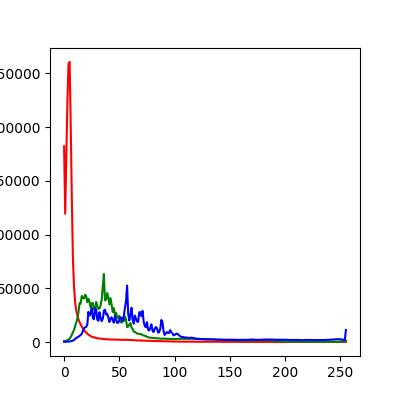
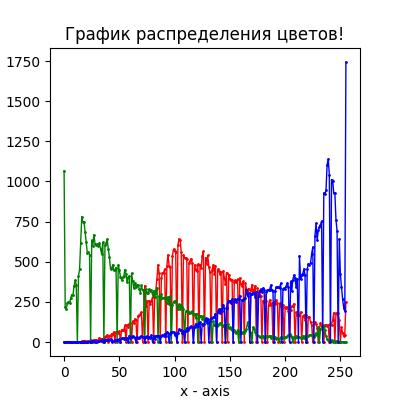
final

diff --git a/templates/result.html b/templates/result.html
@@ -7,11 +7,11 @@
 <div class="container">
     <div class="labels">
         <span>Image 1 </span>
-        <span>График распределения цветов исходной картинки</span>
     </div>
     <div class="image-container">
         <img src={{ image1 }}/>
         <img src="./static/images/color_map.jpg"/>
+
     </div>
 
     <div class="labels">
@@ -20,15 +20,8 @@
     </div>
     <div class="image-container">
         <img src="./static/images/new_image.jpg" />
-        <img src="./static/images/color_map_2.jpg"/>
+
     </div>
 
-
-    <div class="labels">
-        <span>Графики среднего значения цвета по вертикали и горизонтали</span>
-    </div>
-    <div class="image-container">
-        <img src="./static/images/hist1.png"/>
-    </div>
 </div>
 {% endblock %}

diff --git a/app.py b/app.py
@@ -1,6 +1,7 @@
 # Веб-приложение должно менять цветовые карты изображения r, g, b в соответствии
 # с заданным пользователем порядком, выдавать графики распределения цветов
 # исходной картинки и графики среднего значения цвета по вертикали и горизонтали.
+import cv2
 from flask import Flask, render_template, request, redirect, url_for
 from flask_wtf import FlaskForm
 from werkzeug.utils import secure_filename
@@ -25,16 +26,18 @@ class ColorForm(FlaskForm):
                                               ("Dark2", "Dark2")],
                                      validators=[DataRequired()])
 
+#меняет цветовую карту изображения
+def color_pics(path, choosing_colormaps):
+    image = Image.open(path)
+    np_image = np.array(image)
+    plt.imshow(np_image[:, :, 1], cmap=choosing_colormaps)
+    plt.colorbar(orientation='vertical')
+    plt.title('Color map:', text=choosing_colormaps)
+    plt.savefig('./static/images/new_image.jpg')
+    plt.close()
 
-# выдавать графики распределения цветов исходной картинки и графики среднего значения цвета по вертикали и горизонтали.
-# Доделать выдачу средних значений.!!
-def color_map(path, filename):  # график
-    # очищаем папку static от файлов, загруженных в прошлой сессии
-    files = os.listdir("./static/images/")
-    if len(files) > 1:
-        for file_path in files:
-            if file_path != 'style.css':
-                os.remove('./static/images/' + file_path)
+
+def color_map(path):
     #  Создаем форму. В случае успешной валидации, переходим на страницу с результатом
     image = Image.open(path)
     # трансформируем изображение в numpy массив
@@ -48,48 +51,71 @@ def color_map(path, filename):  # график
     # создаем график по получившимся данным и сохраняем его в виде изображения
     fig = plt.figure(figsize=(4, 4))
     viewer = fig.add_subplot(1, 1, 1)
-    viewer.plot(rgb[0], color='r')
-    viewer.plot(rgb[1], color='g')
-    viewer.plot(rgb[2], color='b')
+    plt.plot(rgb[0], color='red', linestyle='solid', linewidth=1,
+             marker='o', markerfacecolor='blue', markersize=1)
+    plt.plot(rgb[1], color='green', linestyle='solid', linewidth=1,
+             marker='o', markerfacecolor='blue', markersize=1)
+    plt.plot(rgb[2], color='blue', linestyle='solid', linewidth=1,
+             marker='o', markerfacecolor='blue', markersize=1)
+    # setting x and y axis range
+    plt.ylim()
+    plt.xlim()
+
+    # именуем сторону x
+    plt.xlabel('x - axis')
+    # именуем сторону y
+    plt.ylabel('y - axis')
+
+    # giving a title to my graph
+    plt.title('График распределения цветов!')
     fig.savefig(f'./static/images/color_map.jpg')
+    plt.close()
     return 0
 
+###################
+# Load image as BGR
+def average_color_image(path):
+    image_bgr = cv2.imread(path, cv2.IMREAD_COLOR)
+    # Calculate the mean of each channel
+    rgb = cv2.mean(image_bgr)
 
-def color_map_2():  # график
-    image = Image.open('./static/images/new_image.jpg')
-    # трансформируем изображение в numpy массив
-    np_image = np.array(image)
-    # транспонируем, чтобы получить доступ к значениям RGB
-    image_transposed = np_image.transpose()
-    # создаем массивы и записываем в них количество значений для каждой величины R, G и B
-    rgb = [[]] * 3
-    for i in range(3):
-        rgb[i], bin = np.histogram(image_transposed[i], bins=256)
-    # создаем график по получившимся данным и сохраняем его в виде изображения
-    fig = plt.figure(figsize=(4, 4))
-    viewer = fig.add_subplot(1, 1, 1)
-    viewer.plot(rgb[0], color='r')
-    viewer.plot(rgb[1], color='g')
-    viewer.plot(rgb[2], color='b')
-    fig.savefig(f'./static/images/color_map_2.jpg')
-    return 0
+    # Swap blue and red values (making it RGB, not BGR)
+    observation = np.array([(rgb[0], rgb[1], rgb[2])])
+    # Show mean channel values
+    observation
+    # Show image
+    plt.imshow(observation), plt.axis("off")
+    plt.savefig(f'./static/images/average_color_image.jpg')
+    plt.show()
 
+##############
+# Load image as BGR
+def average_color_graph(path):
+    image_bgr = cv2.imread(path, cv2.IMREAD_COLOR)
+    # Calculate the mean of each channel
+    rgb = cv2.mean(image_bgr)
 
-collage_path = './static/images/collage.jpg'
+    # Swap blue and red values (making it RGB, not BGR)
+    np.array([(rgb[0], rgb[1], rgb[2])])
+    # Show mean channel values
+    print(rgb[1])
+    plt.plot(rgb[0], color='red', linestyle='dotted', linewidth=1,
+             marker='o', markerfacecolor='blue', markersize=8)
+    plt.plot(rgb[1], color='green', linestyle='dotted', linewidth=1,
+             marker='o', markerfacecolor='blue', markersize=8)
+    plt.plot(rgb[2], color='blue', linestyle='dotted', linewidth=1,
+             marker='o', markerfacecolor='blue', markersize=8)
+    # setting x and y axis range
+    plt.ylim()
+    plt.xlim()
 
-
-#############
-def color_pics(path, choosing_colormaps):
-    image = Image.open(path)
-    np_image = np.array(image)
-
-    plt.imshow(np_image[:, :, 1], cmap=choosing_colormaps)
-    plt.colorbar(orientation='horizontal')
-    plt.savefig('./static/images/new_image.jpg')
-
-    ############
-
-
+    plt.xlabel('horizontal')
+    plt.ylabel('vertical')
+    plt.title('График среднего значения цвета')
+    plt.savefig(f'./static/images/average_color_graph.jpg')
+    plt.show()
+    plt.close()
+##############
 # главная страница приложения
 @app.route("/", methods=["GET", "POST"])
 def index():
@@ -107,21 +133,19 @@ def index():
 
     if form.validate_on_submit():  # возвращает True, когда форма была отправлена и данные были приняты всеми валидаторами полей
 
-        filename1 = os.path.join('./static/images', secure_filename(form.img1.data.filename))
-        form.img1.data.save(filename1)
-        color_map(filename1, 'color_map')
-
-        color_pics(filename1, choosing_colormaps)
-        color_map_2()
-
-        return redirect(url_for("result", image1=filename1))
+        filename = os.path.join('./static/images', secure_filename(form.img1.data.filename))
+        form.img1.data.save(filename)
+        color_map(filename)
+        average_color_graph(filename)
+        average_color_image(filename)
+        color_pics(filename, choosing_colormaps)
+        return redirect(url_for("result", image1=filename))
 
     return render_template("index.html", form=form)
 
 
 @app.route("/result", methods=["GET"])
 def result():
-    # получаем названия файла и нужную форму коллажа из параметров функции redirect
+    # получаем названия файла и нужную форму из параметров функции redirect
     image1_path = request.args.get('image1')
-
     return render_template("result.html", image1=image1_path)

diff --git a/test.py b/test.py
@@ -1,111 +1,49 @@
-from PIL import Image
-import numpy as np
-#https://www.youtube.com/watch?v=3oXZTy7hrAQ&t=22s
-#https://gist.github.com/olooney/1246268
-#https://stackoverflow.com/questions/2270874/image-color-detection-using-python
+# Веб-приложение должно менять цветовые карты изображения r, g, b в соответствии
+# с заданным пользователем порядком, выдавать графики распределения цветов
+# исходной картинки и графики среднего значения цвета по вертикали и горизонтали.
+import cv2
+from flask import Flask, render_template, request, redirect, url_for
+from flask_wtf import FlaskForm
+from werkzeug.utils import secure_filename
+from wtforms import FileField, SubmitField, SelectField
+from wtforms.validators import DataRequired
+from flask_wtf.file import FileRequired, FileAllowed
+import os
 import matplotlib.pyplot as plt
+import numpy as np
+from PIL import Image
+#  Создаем форму. В случае успешной валидации, переходим на страницу с результатом
+image = Image.open('./static/images/1.jpg')
+# трансформируем изображение в numpy массив
+np_image = np.array(image)
+# транспонируем, чтобы получить доступ к значениям RGB
+image_transposed = np_image.transpose()
+rgb = [[]] * 3
+for i in range(3):
+    rgb[i], bin = np.histogram(image_transposed[i], bins=256)
+# x axis values
+#x = [1, 2, 3, 4, 5, 6]
+## corresponding y axis values
+#y = [2, 4, 1, 5, 2, 6]
 
-#pic = plt.imread('./static/1.jpg')
-#plt.imshow(pic)
-#print(pic)
-##get image pixels
-#print(pic.shape)
-#
-## display the image in a matplotlib window
-#
-#fig = plt.figure()
-#ax = fig.subplots()
-#f = ax.imshow(pic[:,:,1], alpha=0.8, cmap='gray', vmin=0, vmax=500, aspect='equal')
-#fig.colorbar(f)
-## crop the image
-##ax.set_xlim(0,1920)
-##ax.set_ylim(0,1920)
-#plt.savefig('./static/new_image.jpg')
-#plt.show()
-#ax.imshow(pic)
-#plt.show()
-#
+# plotting the points
+plt.plot(rgb[0], color='red', linestyle='solid', linewidth=1,
+         marker='o', markerfacecolor='blue', markersize=1)
+plt.plot(rgb[1], color='green', linestyle='solid', linewidth=1,
+         marker='o', markerfacecolor='blue', markersize=1)
+plt.plot(rgb[2], color='blue', linestyle='solid', linewidth=1,
+         marker='o', markerfacecolor='blue', markersize=1)
+# setting x and y axis range
+plt.ylim()
+plt.xlim()
 
-# for i in range(0, 200,1):
-#    if i < 50:
-#        val_list = [2] * 200
-#    elif i < 100:
-#        val_list = [5] * 200
-#    elif i < 150:
-#        val_list = [10] * 200
-#    vals.append(val_list)
-#
-# plt.pcolormesh (vals, cmap=plt.get_cmap('jet', 11), alpha=0.5)
-# plt.axis('off')
-# plt.colorbar()
-#
-# plt.show()
+# naming the x axis
+plt.xlabel('x - axis')
+# naming the y axis
+plt.ylabel('y - axis')
 
-# np.random.seed(123)
-# data = np.random.rand(5, 7)
-# plt.pcolormesh(data, cmap='plasma', edgecolors="k", shading='flat')
-# plt.show()
+# giving a title to my graph
+plt.title('Some cool customizations!')
 
-## Преобразование данных изображения в массив для сохранения
-## img = np.asarray(Image.open('1.jpg').convert('RGB'))
-# x = Image.open('1.jpg').convert('RGB')
-# print(x.format)
-# print(x.mode)
-# print(x.size)
-##x.show()
-# x[56:112,:] = np.random.rand(3)[np.newaxis,np.newaxis,:]
-# x.show()
-# with Image.open('1.jpg') as im:
-#  im_data = np.array(im) # Преобразовать данные изображения в массив
-#  im_l = im.convert('L') # Серое изображение
-#  im_l_data = np.array(im_l) # Преобразование изображения в оттенках серого в массив
-#  im_l.save('11.jpg')
-#  open('11.jpg')
-# print("im_data.shape",im_data.shape) # Вывести форму массива цветных изображений, output (1920, 1080, 3)
-# print("im_l_data.shape", im_l_data.shape) # Вывести форму массива изображений в градациях серого, output (1920, 1080)
-##сохранять данные
-# np.savez('a_array.npz', a_dat = im_data, a_l_dat = im_l_data) # Сохраняем данные изображения в сжатый файл
-## Прочитать сохраненные данные
-# data = np.load('a_array.npz') # Загрузить данные, доступ к возвращаемым данным осуществляется через имя ключа и устанавливается как имя сохраненного массива
-# print(data.keys()) #Return ['a_dat', 'a_l_dat']
-## Оценка того, совпадают ли считанные и сохраненные данные
-# print(np.all(data[data.keys()[0]] == im_data), np.all(data[data.keys()[1]] == im_l_data)) #Output True True
-#
-#def color_pics(path):
-#    image = plt.imread(path)
-#    # трансформируем изображение в numpy массив
-#    np_image = np.array(image)
-#    # транспонируем, чтобы получить доступ к значениям RGB
-#    image_transposed = np_image.transpose()
-#    image_transposed.permute(1, 2, 0)
-#    print(image_transposed.shape) # вывод 3 300 400 /// требуется 300 400 3
-#    #Функция matplotlib 'imshow' получает 3-канальные изображения в виде (h, w, 3)
-#
-#    plt.imshow(image_transposed)
-#    f = plt.imshow(image_transposed[:, :, 1], cmap='plasma')
-#    plt.colorbar(f)
-#    plt.savefig('./new_image.jpg')
-
-image_open = Image.open('./static/images/Image.jpg')
-np_image = np.array(image_open)
-
-plt.imshow(np_image[:, :, 1], cmap='Blues')
-plt.savefig('./static/images/new_image.jpg')
-#image.open(path)
-#np_image = np.array(image)
-#plt.imshow(np_image[:,:,1], cmap=shape.lower())
-#И все никаких условий не надо даже
-#
-#
-#Попробуй так
-#
-#if shape.lower() == 'viridis':
-#if shape in ('Viridis', 'viridis'):
-#
-#А то твоя конструкция всегда истинна т.к. фактически ты проверяешь только shape == "foo",
-# а потом идёт всегда истинное or "bar"
-#
-#
-#
-#В if elif программа находит первое же условие и до условий после уже не доходит,
-# а когда 2 разных if то проверять будет каждый. даже если перед этим 1 уже удовлетворил условие
+# function to show the plot
+plt.show()
